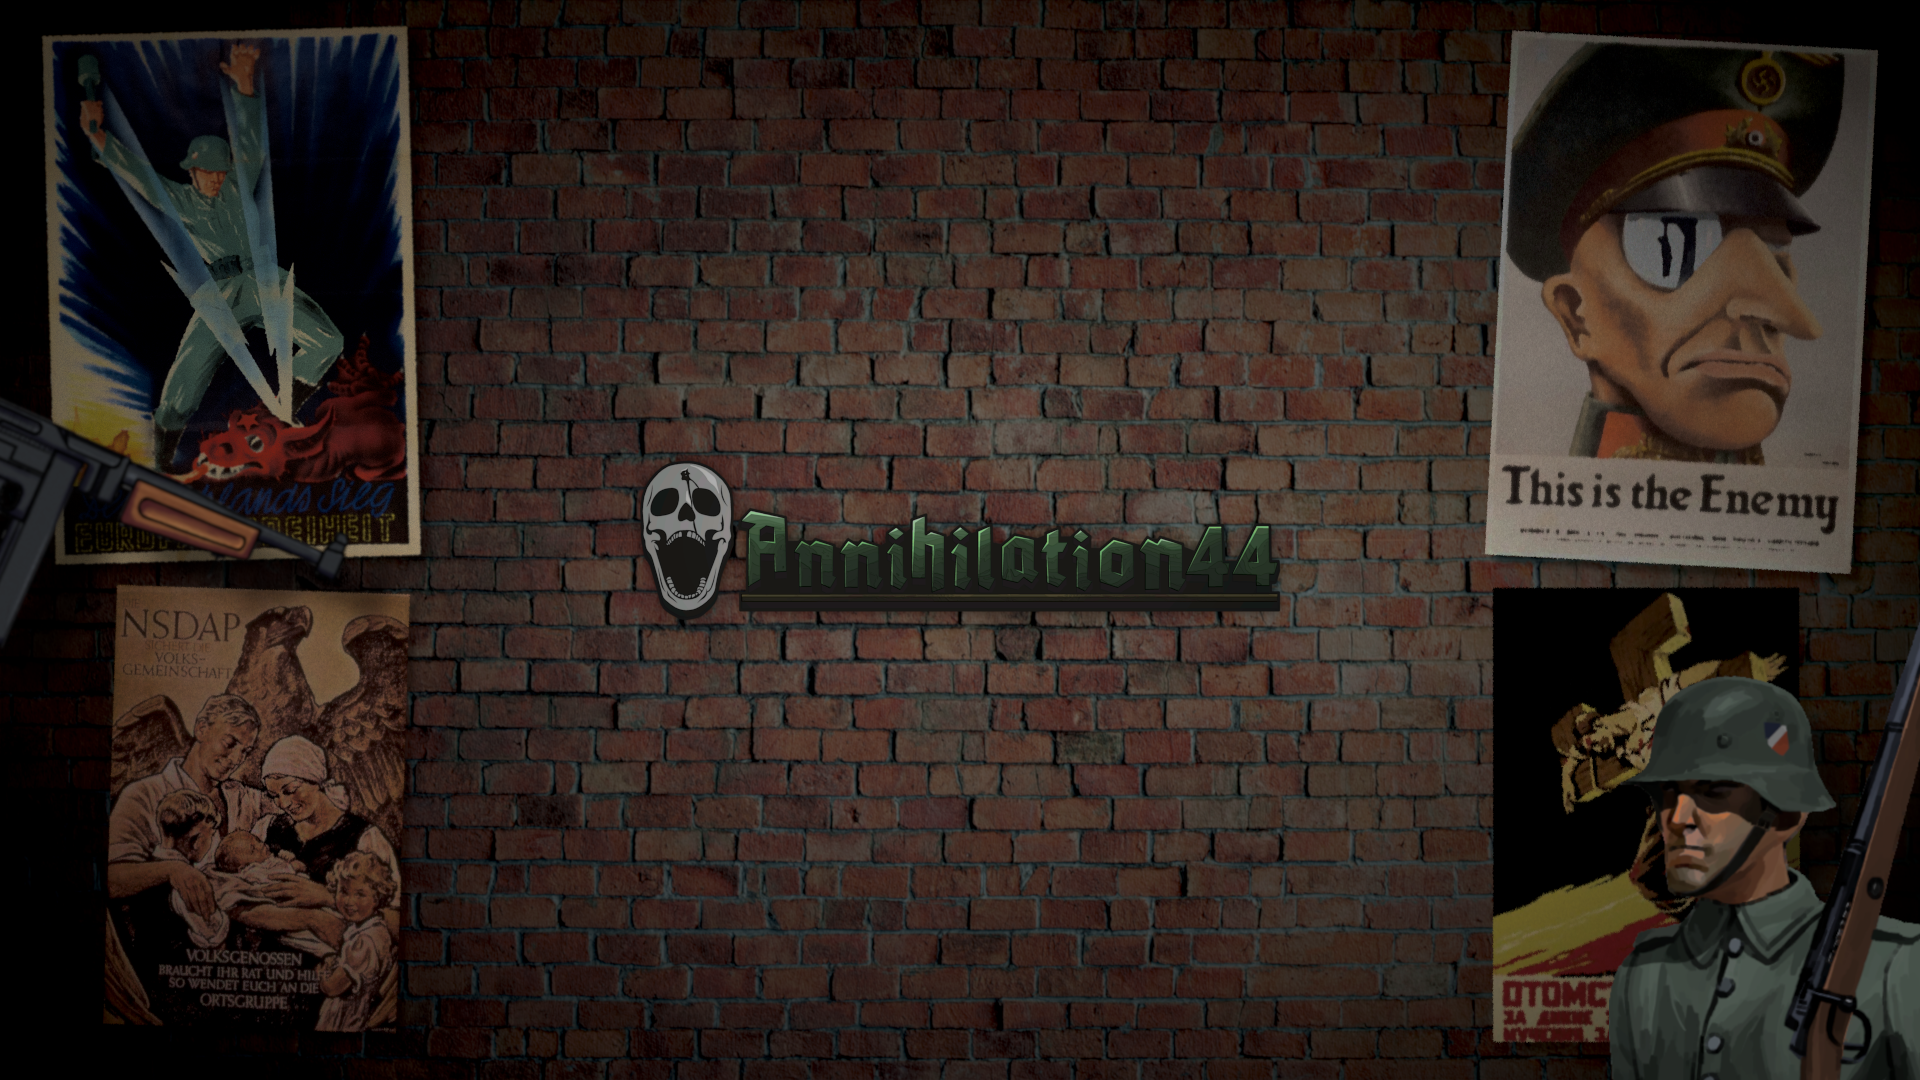
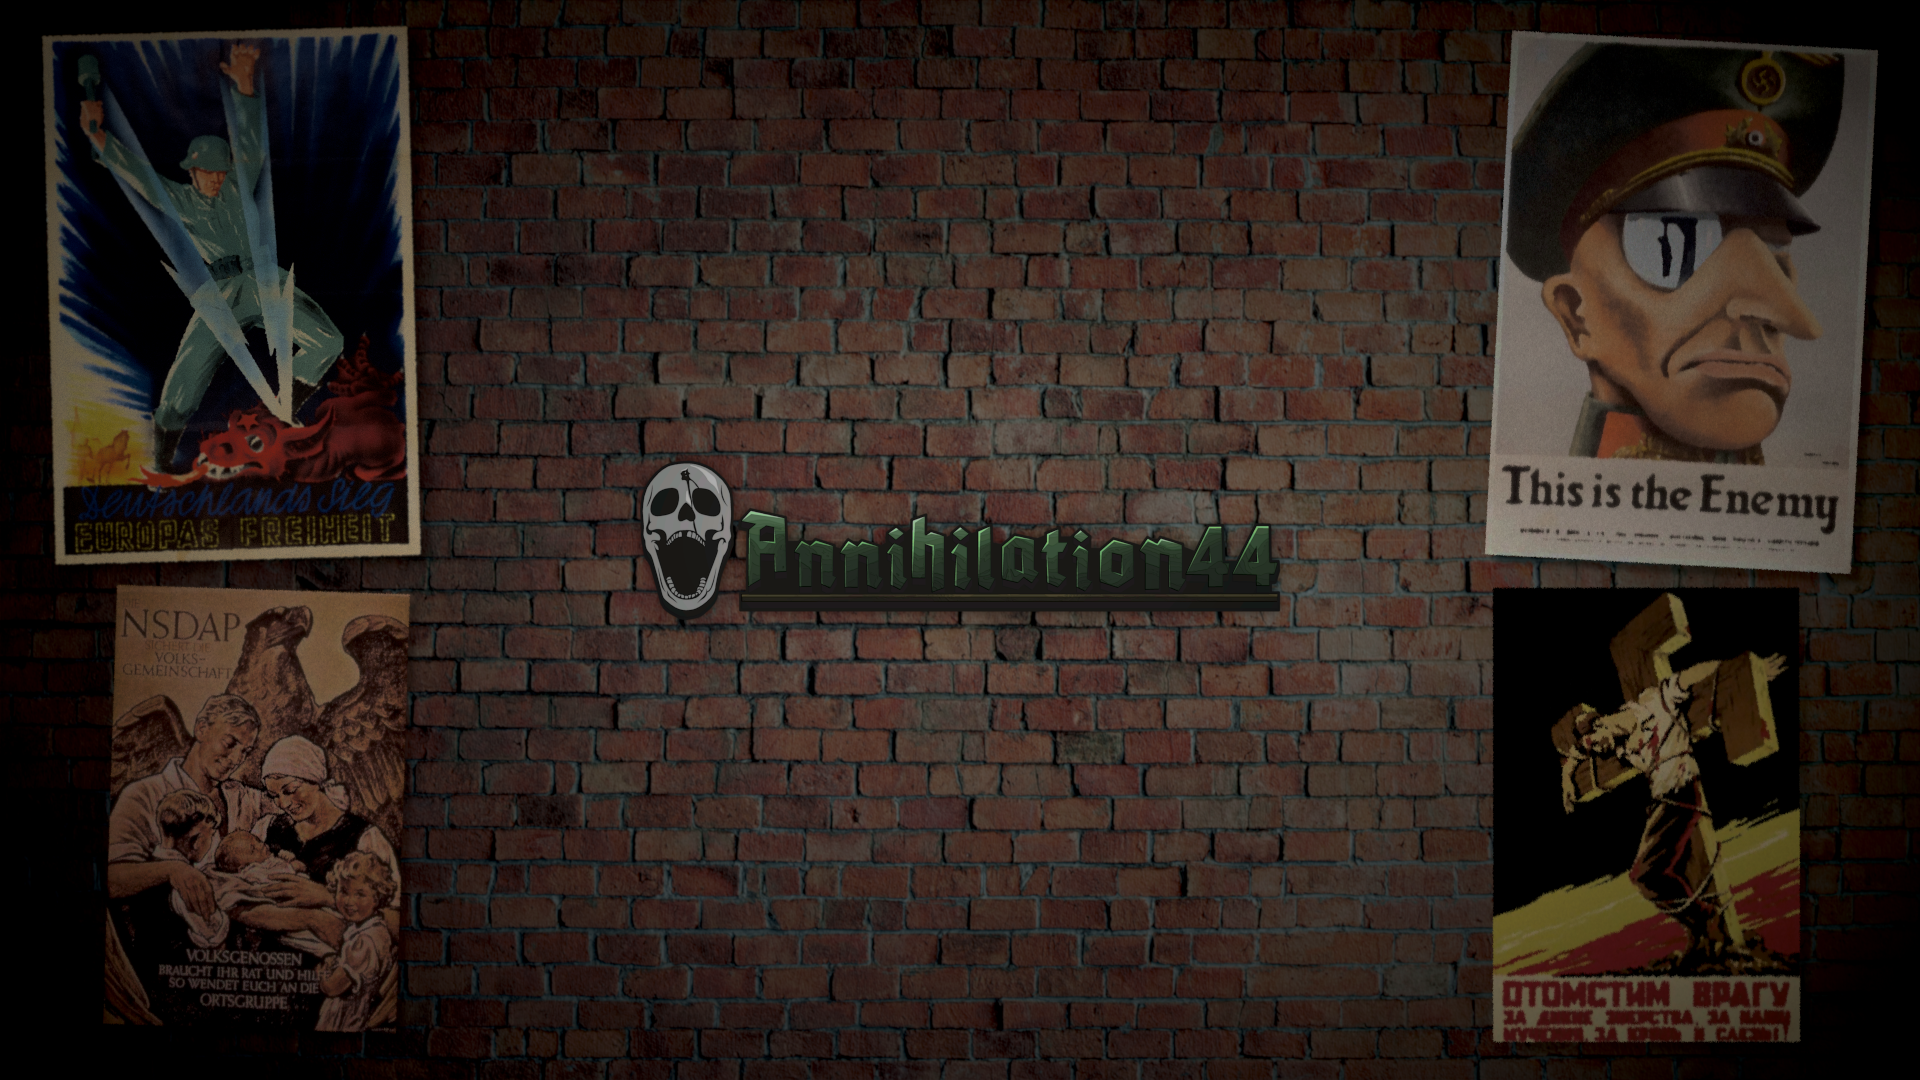
Updated Annihilation44 Page

Changed region(s): [[0.8125, 0.5806, 1.0, 1.0], [0.0, 0.3667, 0.2188, 0.5806]]

diff --git a/Annihilation44.html b/Annihilation44.html
@@ -8,21 +8,93 @@
     <meta property="og:title" content="Annihilation44">
     <meta property="og:description" content="The official home of Annihilation44.">
     <meta property="og:image" content="https://www.rationalstudios.org/an44/images/an44.png">
-    <title>Annihilation44</title>
     <style>
+        @font-face {
+            font-family: 'Codec-Bold';
+            src: url('fonts/Codec-Bold.ttf') format('truetype');
+            font-weight: bold;
+            font-style: normal;
+        }
+
         body {
+	    height: 100%;
             margin: 0;
             padding: 0;
-            background-image: url('an44/images/AN44BG.png');
-            background-size: cover;
+            background: url('an44/images/AN44BG.png') no-repeat center center fixed;
+            background-size: 100% 100%;
             background-position: center;
-            height: 100vh;
+            display: flex;
+            justify-content: center;
+            align-items: flex-start;
+            font-family: 'Codec-Bold', Arial, sans-serif;
+        }
+
+        .content-box {
+            background-color: rgba(9, 9, 9, 0.9);
+            padding: 20px;
+            max-width: 800px;
+            width: calc(100% - 40px);
+            position: relative;
+            top: 50px;
+            color: white;
+            margin: 0; 
+            font-size: 14px;
+        }
+
+        .content-box-text {
+            font-family: Arial, sans-serif;
+        }
+
+       .top-bar {
+            background-color: #1e1e1e;
+            border: 1px solid #445048;
+            height: 30px;
+            display: flex;
+            justify-content: space-between;
+            align-items: center;
+            padding: 0 10px;
+            position: absolute;
+            top: -30px;
+            left: 0;
+            right: 0;
+        }
+
+        .top-bar h2 {
+            color: white;
+            margin: 0;
+            font-size: 14px;
+        }
+
+        .character-image {
+            position: fixed;
+            top: 70%;
+            left: 90%;
+            transform: translate(-10%, -10%);
+            width: 350px;
+            height: auto;
+            z-index: 2;
+            animation: sway 2s infinite alternate; 
+        }
+
+        @keyframes sway {
+            to {
+                transform: translateX(10px);
+            }
         }
     </style>
 </head>
 <body>
 
+    <div class="content-box">
+        <div class="top-bar">
+            <h2>Annihilation44</h2>
+        </div>
+        <p class="content-box-text">Annihilation44 is an upcoming WW2 game crafted within the powerful Unreal Engine, drawing artistic inspiration from the iconic styles of J.C Leyendecker and Roger Wilkerson. This choice of aesthetic perfectly captures the essence of the WW2 era, allowing players to immerse themselves in its atmosphere.</p>
+        <p class="content-box-text">The heart of Annihilation44 lies in its compelling narrative, guiding players through a rich storyline, while also offering a dynamic online multiplayer experience. In the game, you'll step into the shoes of soldiers on both sides of the conflict, each with their own unique journeys, influenced by real-life figures and events of the time.</p>
+        <p class="content-box-text">What sets Annihilation44 apart is its commitment to historical accuracy and unfiltered portrayal. The game doesn't shy away from the complexities of the era, avoiding demonization of any side and presenting an unadulterated perspective. As a result, Annihilation44 is designed for mature audiences who seek an authentic and immersive WW2 gaming experience.</p>
+    </div>
 
+    <img src="an44/images/Hans.png" alt="Hans" class="character-image">
 
 </body>
 </html>

diff --git a/index.html b/index.html
@@ -168,8 +168,8 @@
             <span>In a period of irrational game & software development, we hope to return to a bygone era.</span>
             <div>
                 <a href="https://www.rationalstudios.org/Annihilation44">Annihilation44</a>
-		<a href="https://www.rationalstudios.org/Ethrin" target="_blank">ethrin</a>
-                <a href="https://discord.gg/yw5PAaY8Pn" target="_blank">Discord</a>
+		<a href="https://www.rationalstudios.org/Ethrin">ethrin</a>
+                <a href="https://discord.gg/yw5PAaY8Pn">Discord</a>
                 <a href="#" class="unclickable">My Account</a>
                 <a href="#" class="unclickable">Sign up</a>
             </div>
